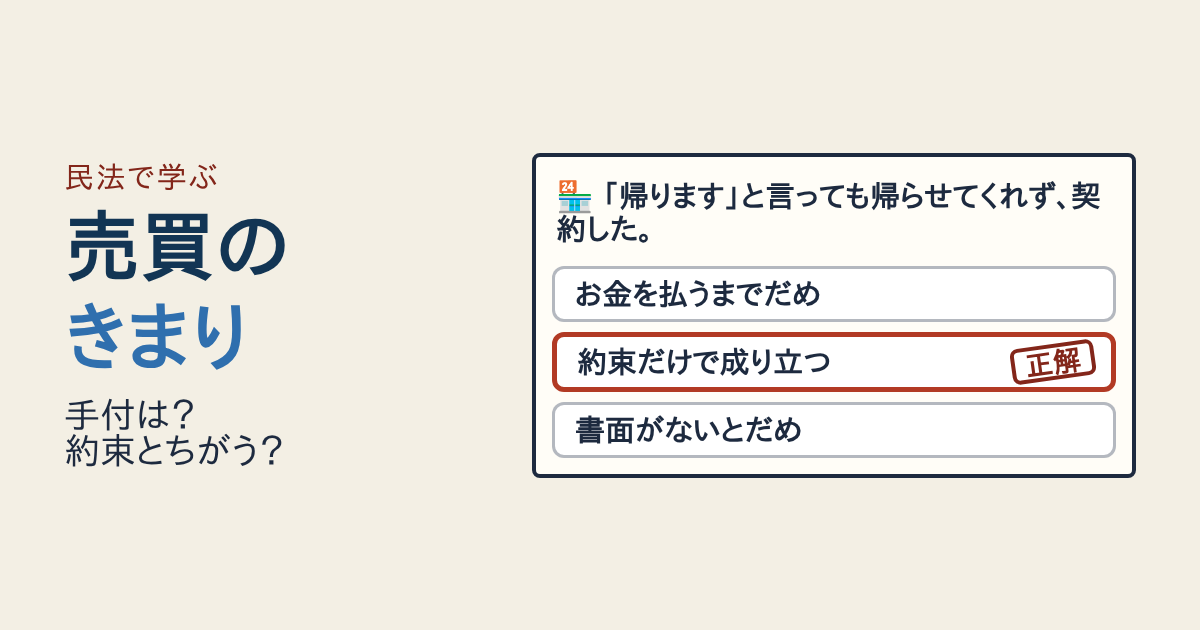
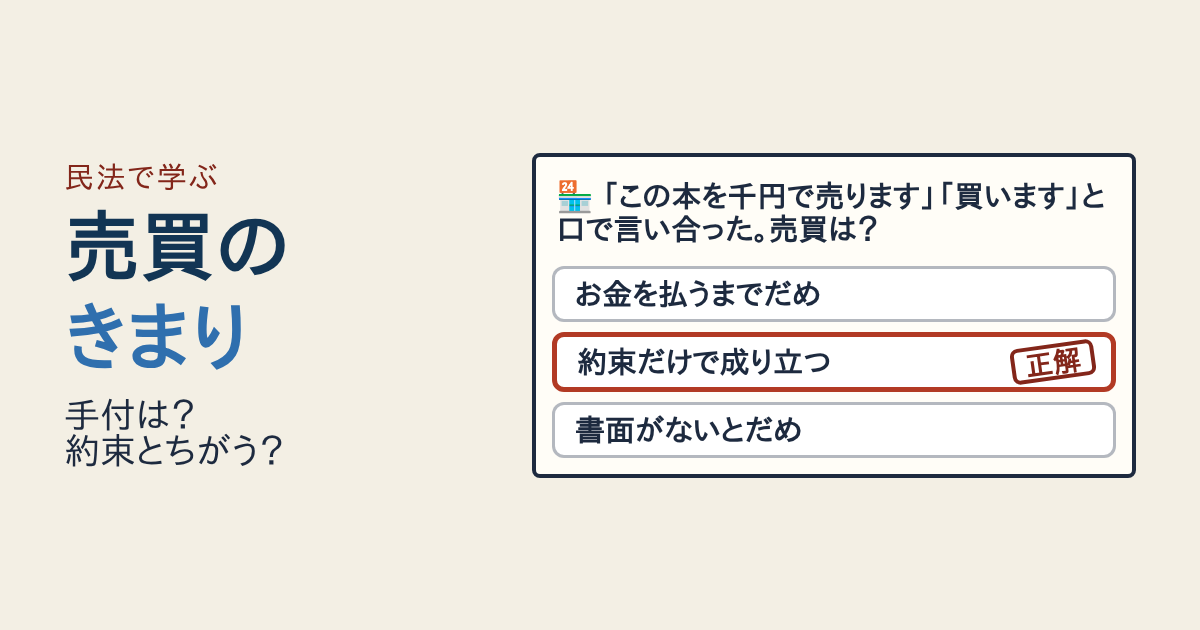
売買のきまり：履行の着手の文言・通知期限の重大な過失・共有画像の例を直す
Claude-Session: https://claude.ai/code/session_01SbNQtbNeSBJdXrrcAG1skR

Changed region(s): [[0.4625, 0.2714, 0.925, 0.3921]]

diff --git a/data.js b/data.js
@@ -98,7 +98,7 @@
 
   // ---- ふつう ----
   // [始めた人（0=だれも 1=売主 2=買主）]
-  const START = ["まだどちらも約束の行動を始めていない", "売主が家を引き渡す準備を始めた", "買主が代金を払い始めた"];
+  const START = ["まだどちらも約束の行動を始めていない", "売主が家の引き渡しを始めた", "買主が代金を払い始めた"];
   K("chakushu", 1, "tetsuke", "tetsuke", "相手が始めたら手付では解除できない", "始めたのが、やめたい人の「相手」かを見ます。", "手付での解除は、相手が約束の行動（引き渡しや支払い）を始めたあとはできません。自分が始めただけなら、まだできます。",
     "手付による解除は、その相手方が契約の履行に着手した後は、することができません（民法 第557条第1項ただし書）。", ["m557"],
     (R, lv) => { const w = ri(R, 0, 3), st = ri(R, 0, 2), me = ri(R, 1, 2), ans = st !== 0 && st !== me ? "もう手付では解除できない" : "手付で解除できる",
@@ -125,7 +125,7 @@
     "種類又は品質の不適合を、買主が知った時から一年以内に売主に通知しないときは、追完・減額・損害賠償・解除ができなくなります（民法 第566条）。", ["m566"],
     (R, lv) => { const w = ri(R, 0, 3), k = ri(R, 0, TSUCHI.length - 1), m = TSUCHI[k], d = ri(R, 0, DEFECT.length - 1), ans = m < 12 ? "今知らせれば求められる" : "もう求められない",
         o = choose(R, lv, ans, ["今知らせれば求められる", "もう求められない", "いつまでも求められる", "買って1週間しか求められない"]);
-      return { q: `${WHO[w]}が買った品物は、${DEFECT[d]}。気づいたのは${ago(m)}前で、まだ売主に知らせていない。売主はそれを知らなかった。直すよう求められる？`, opts: o, ans, v: `${k}.${d}.${w}:${o.join(".")}`, a: {} }; });
+      return { q: `${WHO[w]}が買った品物は、${DEFECT[d]}。気づいたのは${ago(m)}前で、まだ売主に知らせていない。売主はそれを知らず、ひどい不注意もなかった。直すよう求められる？`, opts: o, ans, v: `${k}.${d}.${w}:${o.join(".")}`, a: {} }; });
   K("kiken", 1, "daikin", "daikin", "こわれたのは引き渡しの前か後か", "だれのせいでもなくこわれたのが、引き渡しの前か後かを見ます。", "だれのせいでもなく品物がこわれたとき、引き渡しの後なら買主は代金を払い、引き渡しの前なら代金の支払いを断れます。",
     "引渡し以後に当事者双方の責めに帰することができない事由で滅失したときは、買主は代金の支払を拒めません（第567条第1項）。引渡し前は、反対給付を拒めます（第536条第1項）。", ["m567", "m536"],
     (R, lv) => { const w = ri(R, 0, 3), x = ri(R, 0, ITEM.length - 1), t = ri(R, 0, 1), c = pick(R, ["落雷の火事", "大地震", "台風の洪水"]), ans = t ? "代金は払わなければならない" : "代金の支払いを断れる",
